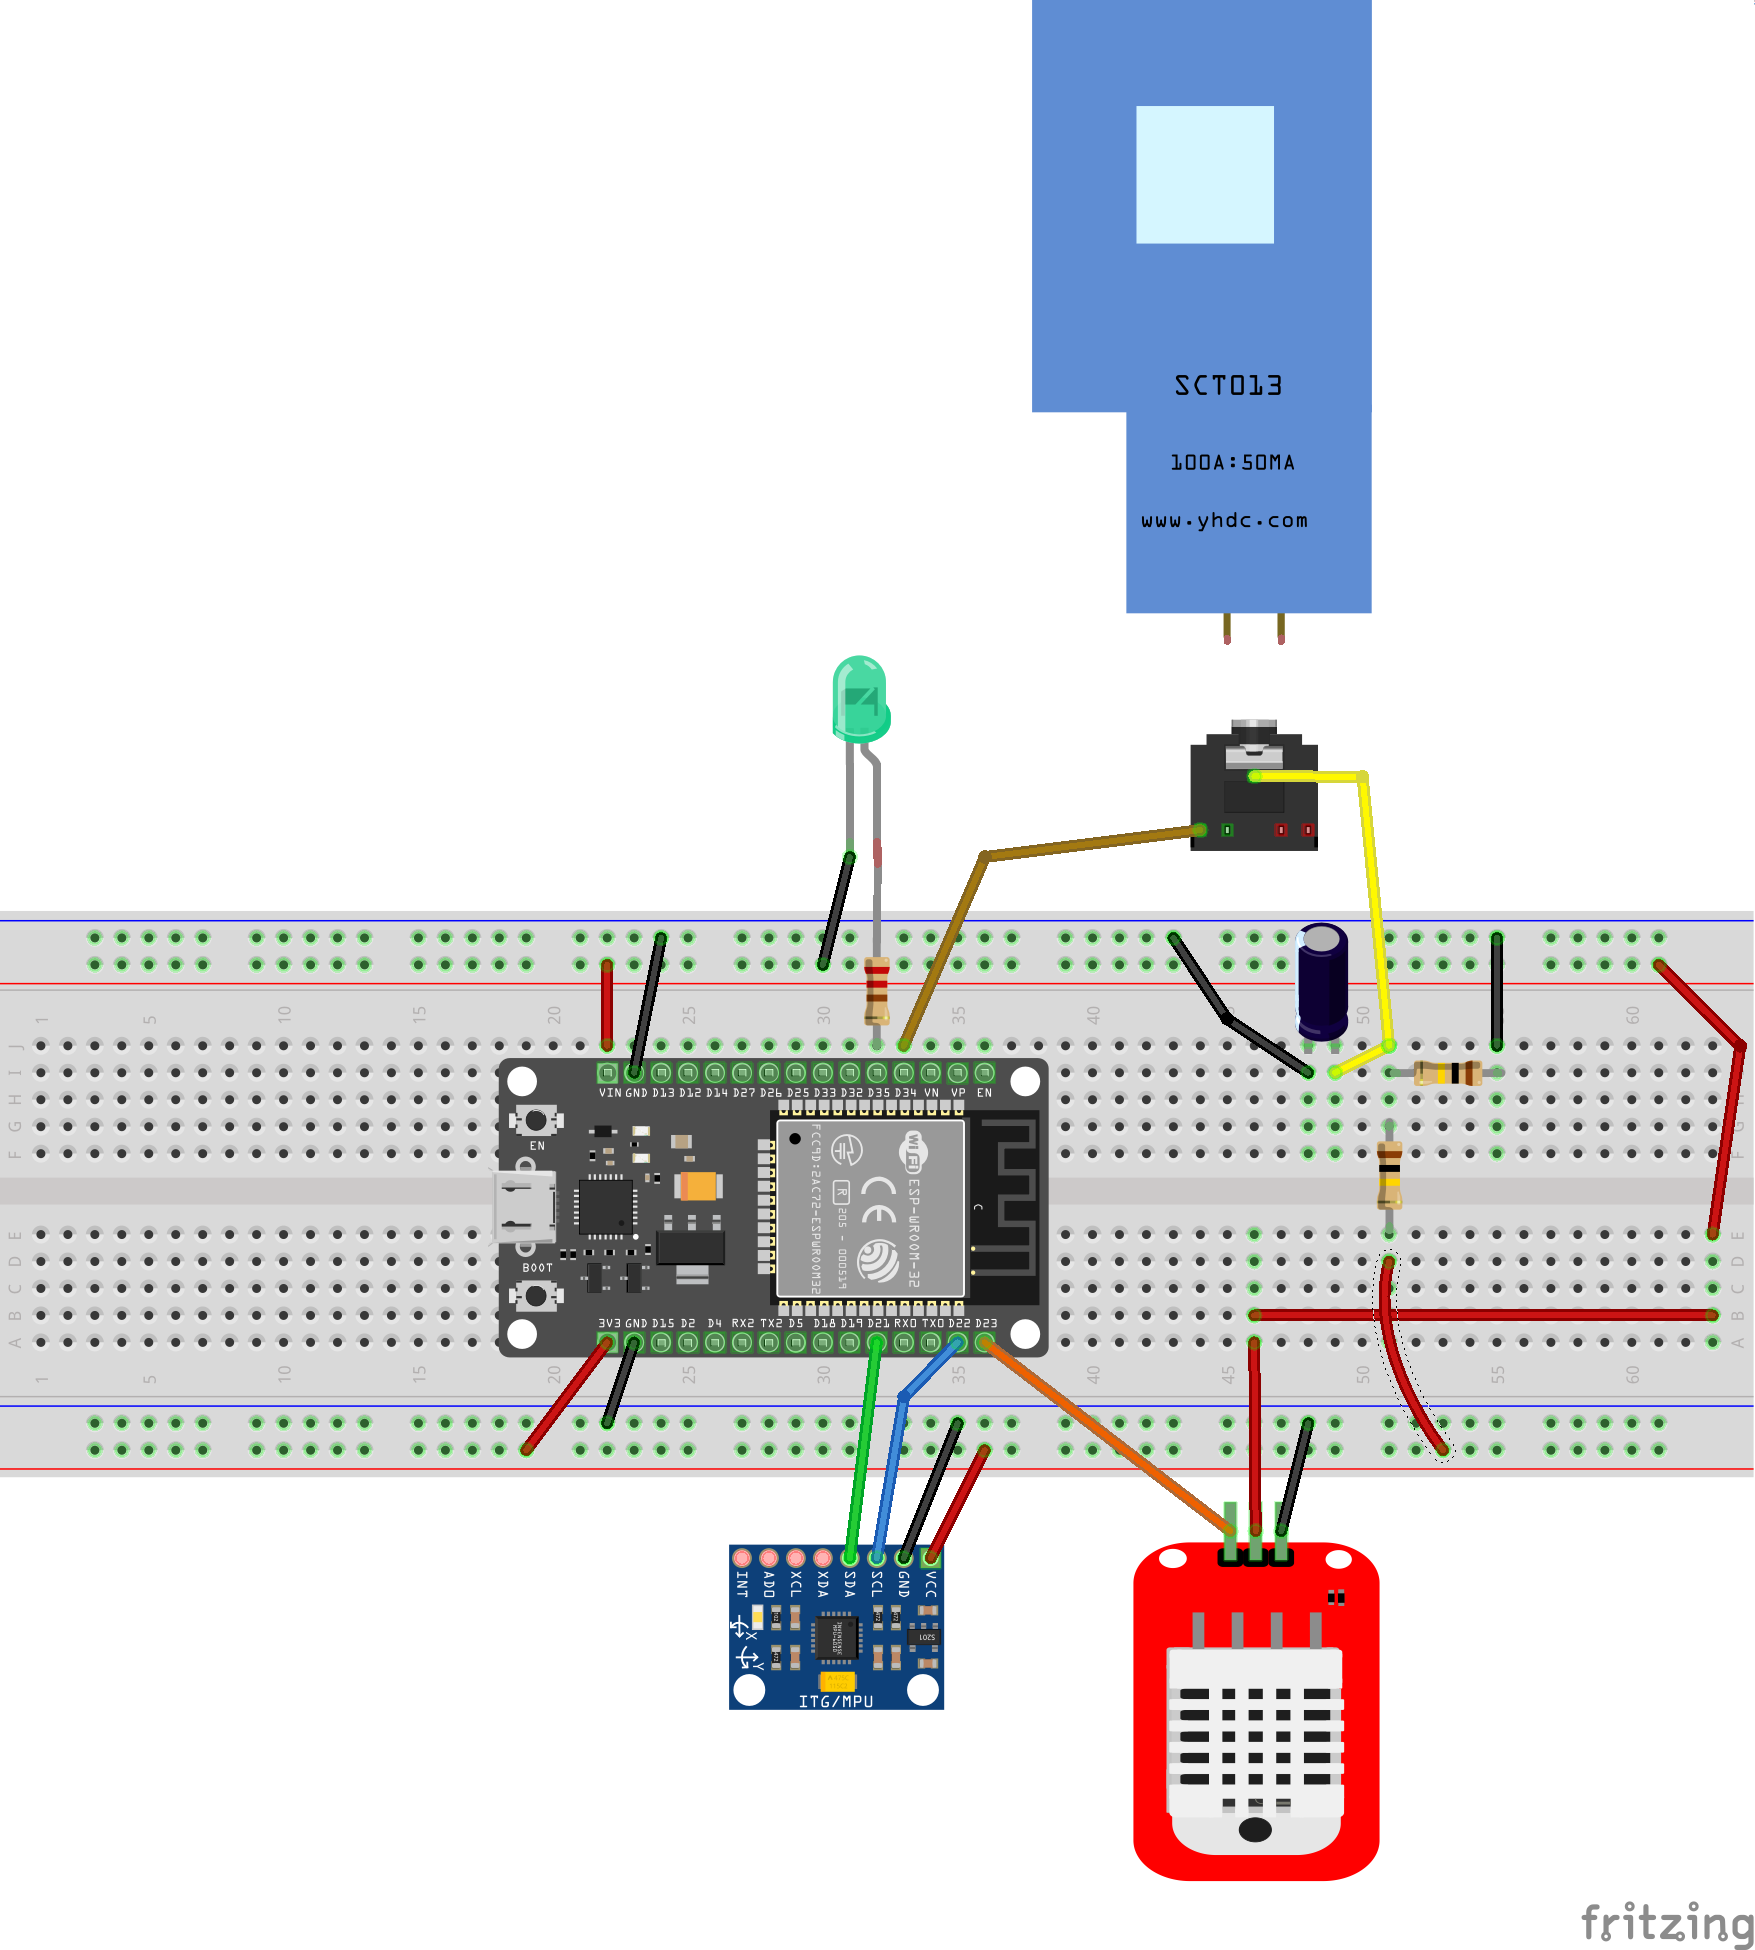
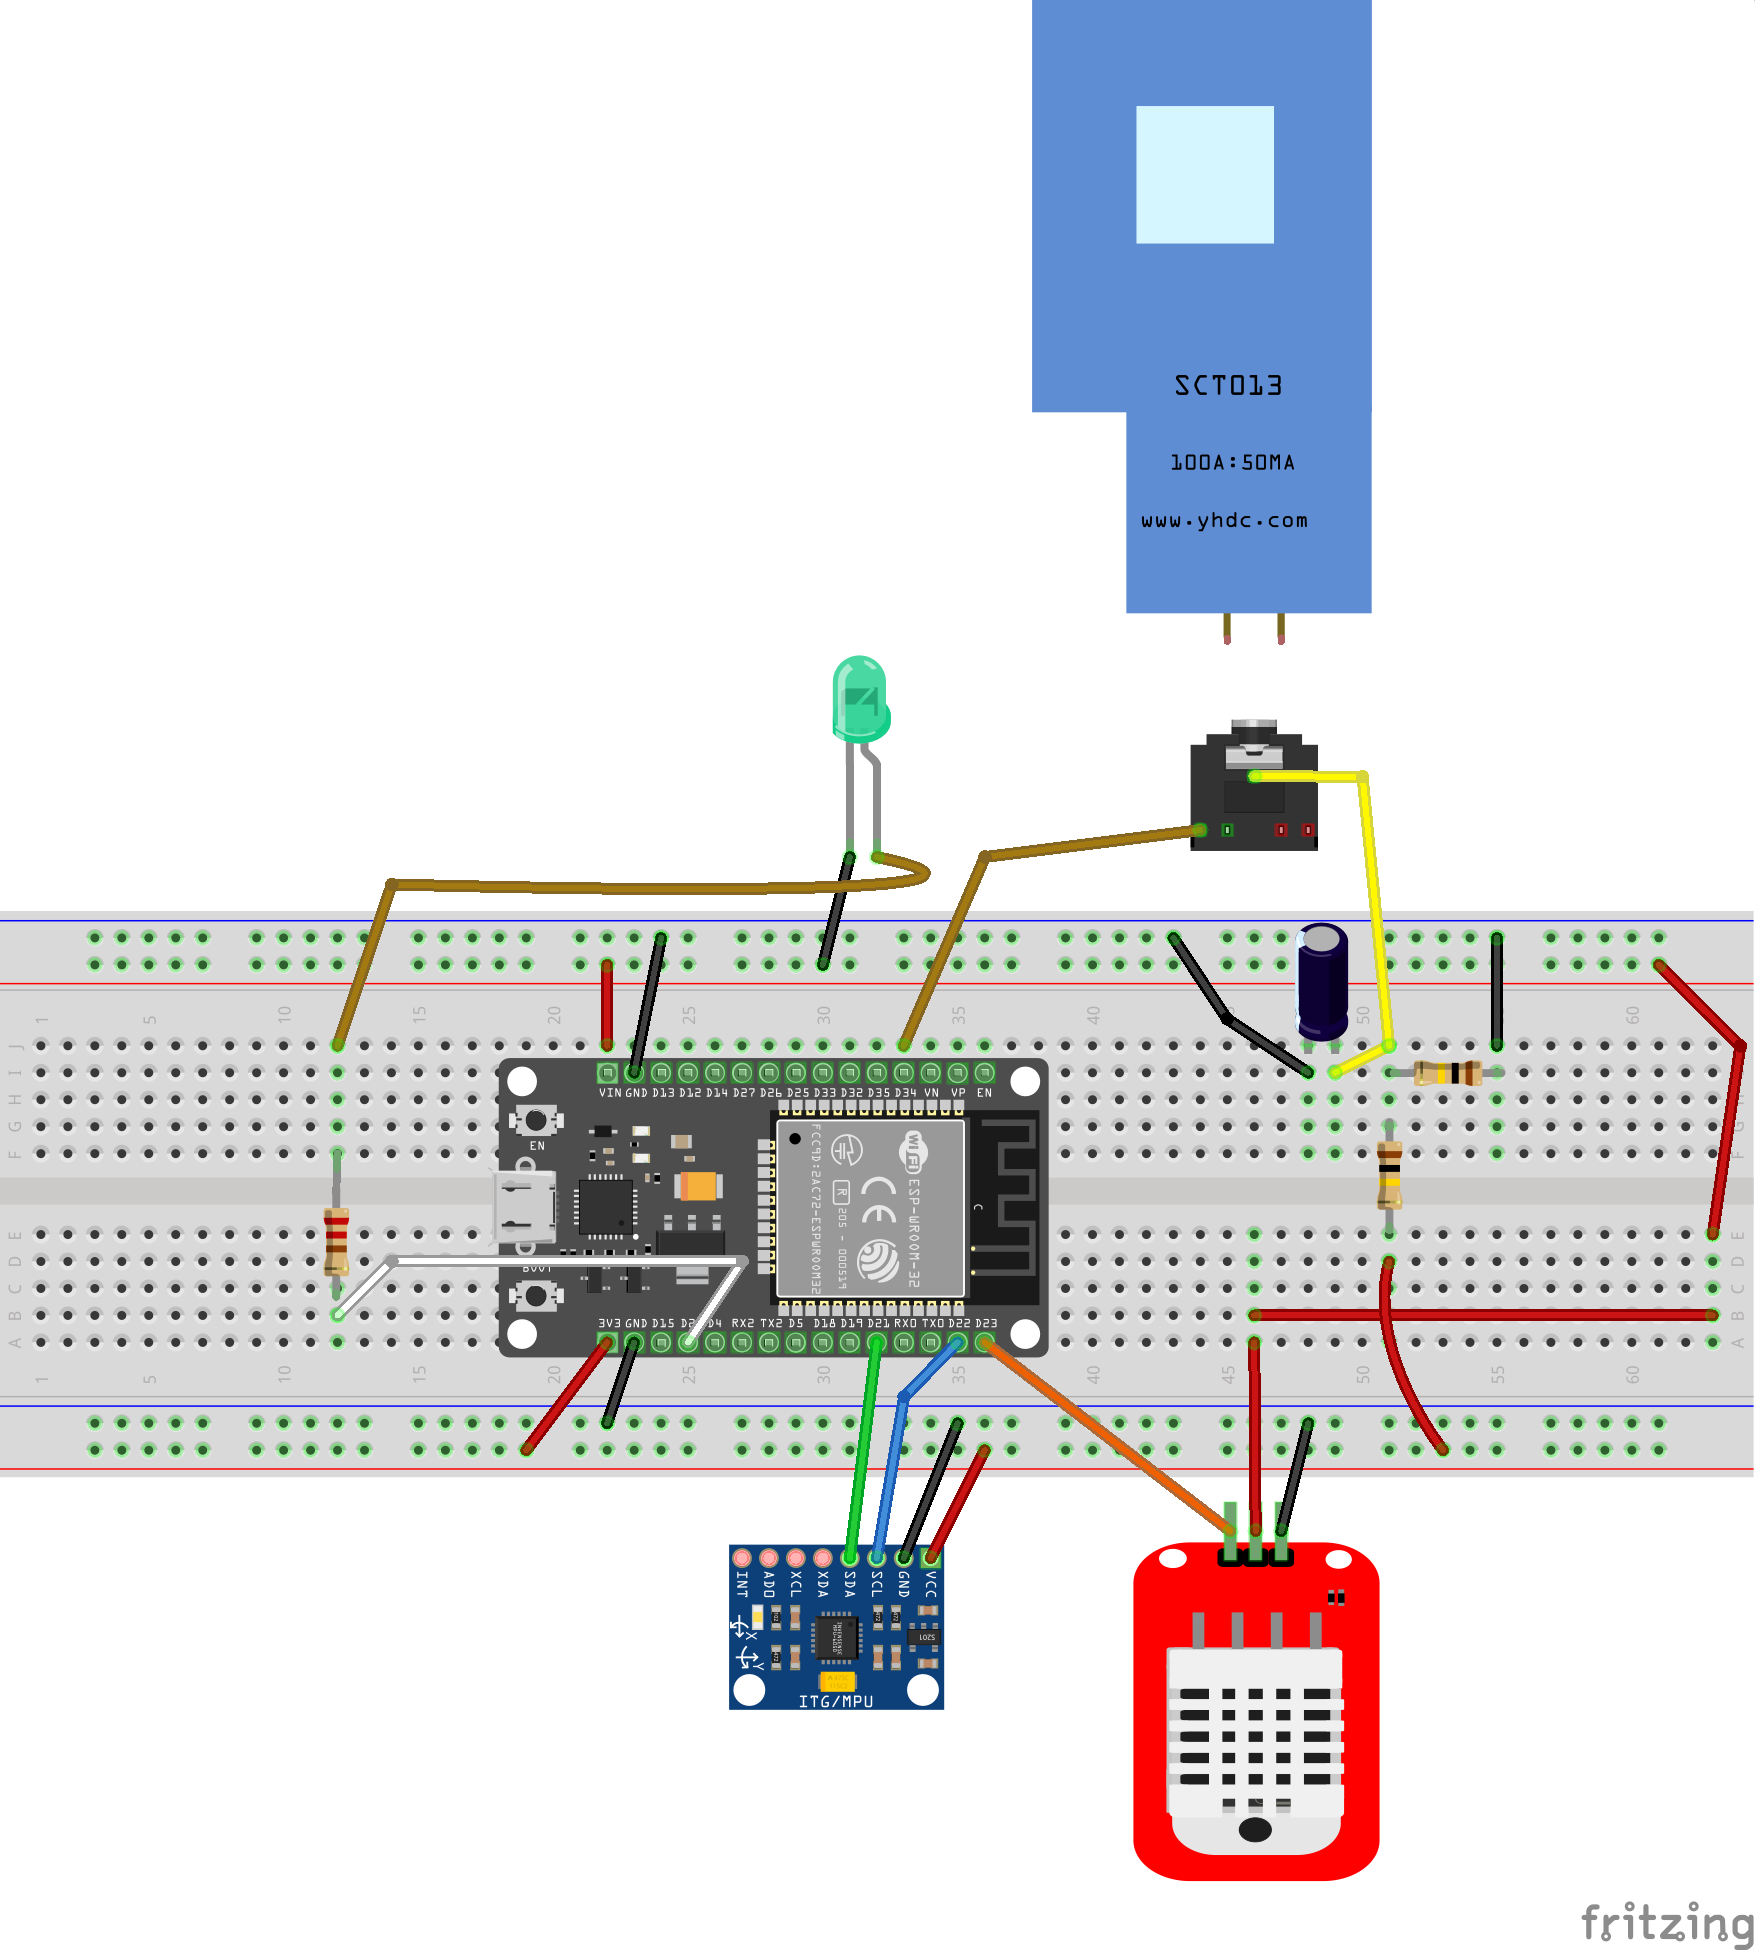
updated readme and circuit diagram

Changed region(s): [[0.1846, 0.4615, 0.4308, 0.7077], [0.2154, 0.4308, 0.5231, 0.5538]]

diff --git a/README.md b/README.md
@@ -136,8 +136,9 @@ Other components pin connection details
 
 | LED Pins | ESP32 Dev Module | 
 | :--- | :--- | 
-| `Anode` | `35 via 220Ω resistor` |
+| `Anode` | `D2 via 220Ω resistor` |
 | `Cathode` | `GND` |
+*D2 is also connected to the internal LED of ESP32 Dev Module*
 
 #### SCT-013 
 
